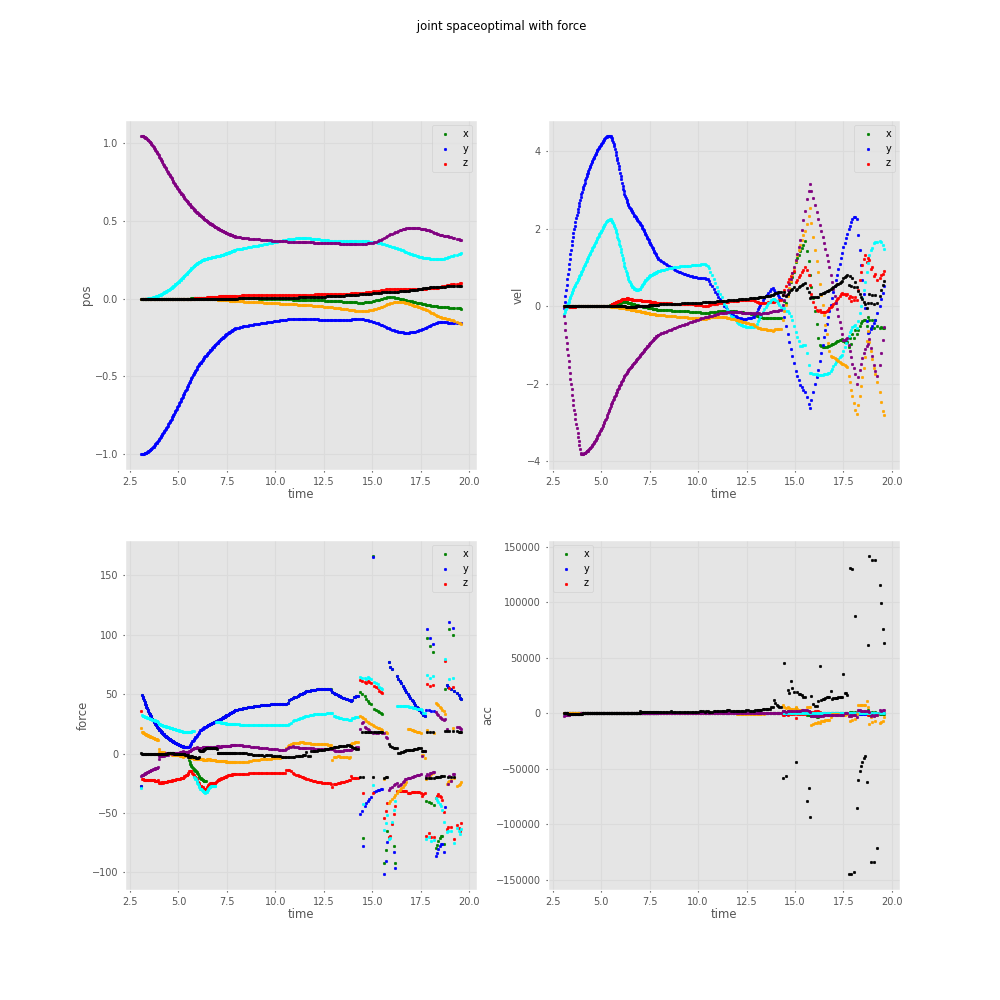
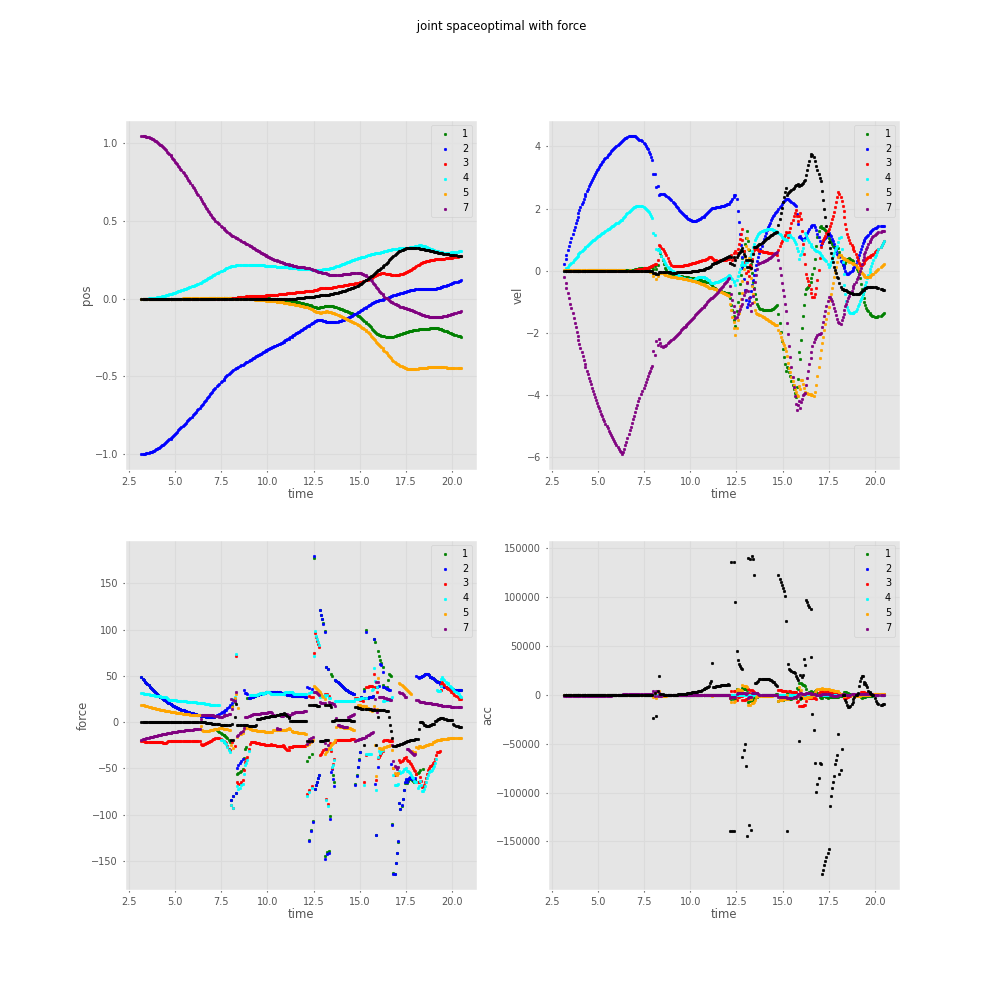
make the graphs

diff --git a/run_controller.py b/run_controller.py
@@ -5,7 +5,7 @@ import matplotlib.pyplot as plt
 import time
 
 
-def generate_save_plt(x, y_array, y_labels, time1, time2, title, additional):
+def generate_save_plt(x, y_array, y_labels, time1, time2, title, legend, additional):
     fig, axs = plt.subplots(2, 2, figsize=(10, 10))
     plt.grid(True)
     colors = ["green", "blue", "red", "cyan", "orange", "purple", "black"]
@@ -18,7 +18,7 @@ def generate_save_plt(x, y_array, y_labels, time1, time2, title, additional):
         ax.set_xlabel("time")
         ax.set_ylabel(lb)
     for ax in axs.flat:
-        ax.legend(["x","y","z"])
+        ax.legend(legend)
 
     if additional is not None:
         for y, idx in zip(additional, range(len(additional))):
@@ -41,7 +41,7 @@ if __name__ == '__main__':
     start_time = time.time()
     np.random.seed(42)
     target_pose = np.random.uniform(-np.pi/2, np.pi/2, size=7)
-    target_vel = [0.5, 0., 0., 0, 0, 0.]
+    target_vel = [1, 0., 0., 0, 0, 0.]
     ee_position = robot.get_ee_position()
     # print("position", ee_position)
     target_position = [ee_position[0] + .3, ee_position[1], ee_position[2]]
@@ -79,8 +79,8 @@ if __name__ == '__main__':
 
     generate_save_plt(time_sim, [ee_curr_pos, ee_curr_vel, ee_curr_force, ee_curr_acc], 
                       ["pos", "vel", "force", "acc"], 
-                      time_sim[0], time_sim[-1], "End effector current"+controller, None)
+                      time_sim[0], time_sim[-1], "End effector current"+controller,["x","y","z"], [ee_des_pos, ee_des_vel])
 
     generate_save_plt(time_sim, [joint_curr_pos,joint_curr_vel,joint_curr_torque,joint_curr_acc], 
                       ["pos", "vel", "force", "acc"], 
-                      time_sim[0], time_sim[-1], " joint space"+ controller, None)
+                      time_sim[0], time_sim[-1], " joint space"+ controller,["1","2","3","4","5","7"], None)

diff --git a/mpc_controller.py b/mpc_controller.py
@@ -20,7 +20,7 @@ class MPC:
         print("Start controller")
         self.Ax, self.Bx, self.Af, self.Bf = np.eye(3), np.eye(3), np.eye(3), np.eye(3)
         self.R = np.eye(self.n)
-        self.P = np.eye(3)*2
+        self.P = np.eye(3)*5
         self.F = np.eye(3)*100
         self.G = np.eye(3)*1
         self.P = self.P.T @ self.P
@@ -99,14 +99,15 @@ class MPC:
         pnv_j = np.linalg.pinv(J)
         next_ee_vel = np.zeros(6)
         desired_ee_vel = np.asarray(desired_ee_vel)[0:3]
-        desired_ee_position = robot_ee_pose[3, 0:3] + desired_ee_vel *robot.curr_time
+        curr_end_eff_position = robot.get_ee_position()
+        desired_ee_position = curr_end_eff_position + desired_ee_vel 
         wrench = robot.get_ee_wrench()
         force = np.asarray(wrench[0:3])
         next_ee_vel[0:3] = self.get_optimal_vel(force, robot, desired_ee_position, desired_ee_vel)
         q_curr = robot.get_joint_positions()
         target_dq = np.matmul(pnv_j, next_ee_vel)
         target_q = (q_curr+ target_dq)
-        curr_end_eff_position = robot.get_ee_position()
+        
         robot.run(target_q)
         Torque = robot.get_joint_torque_mujoco()
         self.update_debug_values(J, Torque, robot, target_dq, target_q, desired_ee_position, desired_ee_vel)
